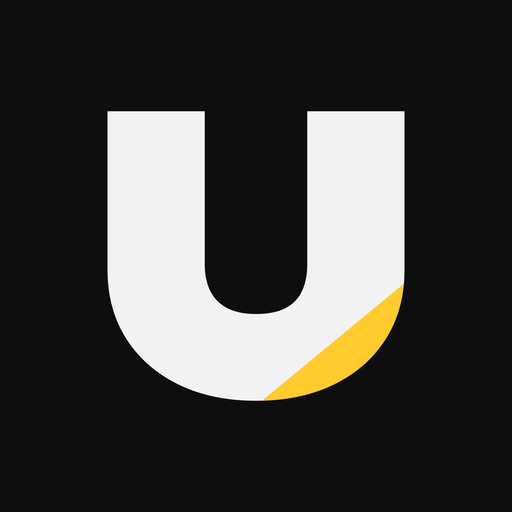
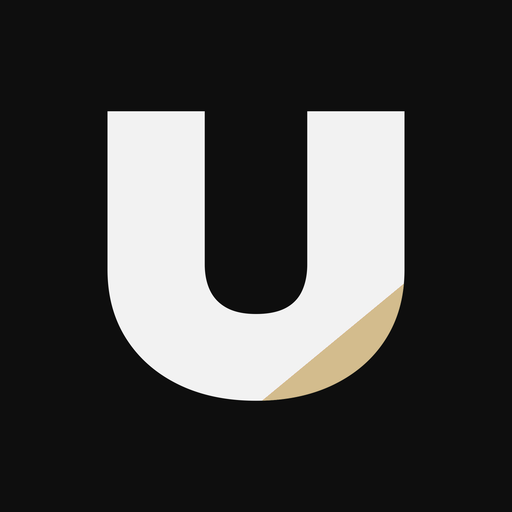
style(uc): Pit Wall gold is the brighter old gold (F-131) (#243)
* style(uc): Pit Wall gold is the brighter old gold (F-131)

The owner asked for a brighter, Saints-style gold. Dark --gold / colors.gold is #D3BC8D
(10.7:1 on surface, 9.4:1 on card, black ink), faint #27221A; light stays a text-safe
dark shade of the same hue, #73602F (5.0:1 on card), faint #F3EBD8. Icons regenerated
with the sweep's value scaled to the gold's, docs and spec figures updated.

* docs(uc): describe the Pit Wall gold without naming a team

* docs(uc): correct the light-gold and surface contrast figures (F-131 review)

---------

Changed region(s): [[0.5, 0.5625, 0.8125, 0.7812]]

diff --git a/web/pitwall/src/styles.css b/web/pitwall/src/styles.css
@@ -1,14 +1,14 @@
 :root{
   --bg:#0A0A0A;--surface:#0A0A0A;--card:#161616;--raised:#1E1E1E;--press:#1E1E1E;--border:#262626;--borderL:#262626;--borderS:#333333;
-  --fg:#F4F4F4;--fg2:#BDBDBD;--muted:#8C8C8C;--inv:#0A0A0A;--gold:#F2BA12;--onGold:#0A0A0A;--goldFaint:#2A2208;--neg:#FF2B2B;--pos:#3DDC84;--warn:#FF8A1F;
+  --fg:#F4F4F4;--fg2:#BDBDBD;--muted:#8C8C8C;--inv:#0A0A0A;--gold:#D3BC8D;--onGold:#0A0A0A;--goldFaint:#27221A;--neg:#FF2B2B;--pos:#3DDC84;--warn:#FF8A1F;
   --disp:'Archivo',system-ui,sans-serif;--mono:'JetBrains Mono',ui-monospace,Menlo,monospace;
 }
 @media (prefers-color-scheme: light){:root:not([data-theme="dark"]){
   --bg:#F4F4F2;--surface:#F4F4F2;--card:#E8E8E5;--raised:#FFFFFF;--press:#FFFFFF;--border:#D6D6D2;--borderL:#D6D6D2;--borderS:#C8C8C4;
-  --fg:#0A0A0A;--fg2:#3F3F3C;--muted:#6A6A66;--inv:#FFFFFF;--gold:#7D5B00;--onGold:#FFFFFF;--goldFaint:#FBF0CC;--neg:#C40F15;--pos:#138A3E;--warn:#96450A;}}
+  --fg:#0A0A0A;--fg2:#3F3F3C;--muted:#6A6A66;--inv:#FFFFFF;--gold:#73602F;--onGold:#FFFFFF;--goldFaint:#F3EBD8;--neg:#C40F15;--pos:#138A3E;--warn:#96450A;}}
 :root[data-theme="light"]{
   --bg:#F4F4F2;--surface:#F4F4F2;--card:#E8E8E5;--raised:#FFFFFF;--press:#FFFFFF;--border:#D6D6D2;--borderL:#D6D6D2;--borderS:#C8C8C4;
-  --fg:#0A0A0A;--fg2:#3F3F3C;--muted:#6A6A66;--inv:#FFFFFF;--gold:#7D5B00;--onGold:#FFFFFF;--goldFaint:#FBF0CC;--neg:#C40F15;--pos:#138A3E;--warn:#96450A;}
+  --fg:#0A0A0A;--fg2:#3F3F3C;--muted:#6A6A66;--inv:#FFFFFF;--gold:#73602F;--onGold:#FFFFFF;--goldFaint:#F3EBD8;--neg:#C40F15;--pos:#138A3E;--warn:#96450A;}
 *{box-sizing:border-box}
 body{background:var(--bg);color:var(--fg);font-family:var(--mono);font-weight:500;font-size:12px;line-height:1.45;font-stretch:125%}
 button{font:inherit;color:inherit;background:none;border:0;cursor:pointer;padding:0}

diff --git a/src/simple/theme/simpleTheme.ts b/src/simple/theme/simpleTheme.ts
@@ -27,9 +27,9 @@ export const S_COLORS_DARK = {
 
   // Pit Wall's own colour (F-131): everything the portal says in the app — the pick band, the
   // ace call, the analysis block, the Pass row — is gold, never the red the rest of the app
-  // uses for its accent and for bad numbers. 10.7:1 on `surface`, 9.7:1 on `card`.
-  gold: '#F2BA12',
-  goldFaint: '#2A2208',
+  // uses for its accent and for bad numbers. 10.4:1 on `surface`, 9.4:1 on `card`.
+  gold: '#D3BC8D',
+  goldFaint: '#27221A',
 
   text: {
     primary: '#F2F2F2',
@@ -61,8 +61,8 @@ export const S_COLORS_LIGHT = {
   primaryLight: '#FF5A5A',
   primaryFaint: '#FFE4E4',
 
-  gold: '#7D5B00',         // dark enough for text: 5.0:1 on `card`, 5.6:1 on `surface`
-  goldFaint: '#FBF0CC',
+  gold: '#73602F',         // dark enough for text: 5.0:1 on `card`, 5.5:1 on `surface`
+  goldFaint: '#F3EBD8',
 
   text: {
     primary: '#0A0A0A',

diff --git a/.aidlc/specs/F-131.md b/.aidlc/specs/F-131.md
@@ -23,7 +23,7 @@ accent, and the portal's favicon and touch icons carry the gold sweep.
 - [ ] Cautions read `--warn` (orange), neither gold nor red: rain at or above 1 mm, the Hero's penalty-risk / open-slot flags, stale data in the context bar, unsaved changes in the Lineup Lab, Moonshot's "Double down" and "terms changed" notes.
 - [ ] `S_COLORS_DARK` / `S_COLORS_LIGHT` carry `gold` and `goldFaint`; the dark `warning` is `#FF8A1F`; `valuePillContrast.test.ts` still passes.
 - [ ] The picker's Pit Wall pick band (`goldFaint` tint, `gold` edge bar and `PIT WALL PICK` label), the ace-call box, `GridPitWallBlock`, the Team screen's `PIT WALL` line and the Profile's Pit Wall rows use `colors.gold`; `colors.primary` is untouched everywhere else.
-- [ ] Gold meets WCAG AA for normal text on the card surface in both themes: dark ≥ 9:1 (`#F2BA12` is 9.7:1 on the app's `#1A1A1A`, 10.0:1 on the portal's `#161616`), light ≥ 5:1 (`#7D5B00` is 5.1:1 on `#E8E8E5`).
+- [ ] Gold meets WCAG AA for normal text on the card surface in both themes: dark ≥ 9:1 (`#D3BC8D` is 9.4:1 on the app's `#1A1A1A`, 9.8:1 on the portal's `#161616`), light ≥ 4.5:1, the AA floor (`#73602F` is 5.0:1 on `#E8E8E5`, 5.5:1 on `#F4F4F2`).
 - [ ] Portal preview screenshots (dark + light, desktop + phone) and an emulator run of the app's picker and driver sheet show gold where red was, filed on the share under `/mnt/smb/share/undercut/enh/pitwall-gold/` (01–09, as for PR #238's evidence) and linked from the PR; `docs/design/pitwall/briefing/HANDOFF.md` records the new tokens.
 - [ ] No forbidden term is introduced (the tokens and copy name no series or sanctioning body).
 

diff --git a/web/pitwall/public/README.md b/web/pitwall/public/README.md
@@ -7,7 +7,7 @@ transport security header and the single-page-app fallback.
 
 `icon-512.png`, `icon-192.png`, `apple-touch-icon.png` and `favicon-32.png` are scaled copies of
 `assets/icon.png` in this repository, the Undercut app icon drawn for this project under F-067, with
-the red sweep of the mark hue-shifted to Pit Wall's gold (`#F2BA12`, F-131). No third-party artwork,
+the red sweep of the mark hue-shifted to Pit Wall's gold (`#D3BC8D`, a warm old gold, F-131). No third-party artwork,
 font or trademark is used in them, and they carry no watchlist term. Regenerate them from the same
 source if the app icon ever changes, so the portal and the app stay one product:
 
@@ -16,12 +16,12 @@ python3 -c "
 import colorsys
 from PIL import Image
 src = Image.open('assets/icon.png').convert('RGB'); px = src.load()
-gh, gs, _ = colorsys.rgb_to_hsv(0xF2/255, 0xBA/255, 0x12/255)
+gh, gs, gv = colorsys.rgb_to_hsv(0xD3/255, 0xBC/255, 0x8D/255)
 for y in range(src.height):
     for x in range(src.width):
         h, s, v = colorsys.rgb_to_hsv(*(c/255 for c in px[x, y]))
         if s > 0.25 and (h < 0.06 or h > 0.94):  # the red sweep, edges included
-            px[x, y] = tuple(round(c*255) for c in colorsys.hsv_to_rgb(gh, min(s, gs), v))
+            px[x, y] = tuple(round(c*255) for c in colorsys.hsv_to_rgb(gh, min(s, gs), v * gv))
 for size, name in [(512,'icon-512.png'),(192,'icon-192.png'),(180,'apple-touch-icon.png'),(32,'favicon-32.png')]:
     src.resize((size,size), Image.LANCZOS).save(f'web/pitwall/public/{name}', optimize=True)
 "

diff --git a/docs/design/pitwall/briefing/HANDOFF.md b/docs/design/pitwall/briefing/HANDOFF.md
@@ -19,7 +19,7 @@ The `.dc.html` files are design-tool components: markup inside `<x-dc>` with `{{
 | Secondary text | `#BDBDBD` | `#3F3F3C` |
 | Muted text / labels | `#8C8C8C` | `#6A6A66` |
 | Dividers | `#262626` | `#D6D6D2` |
-| Accent (gold, `--gold`; was red `#FF2B2B` / `#E5161C`) | `#F2BA12`, ink on it `#0A0A0A`, faint `#2A2208` | `#7D5B00`, ink on it `#FFFFFF`, faint `#FBF0CC` |
+| Accent (gold, `--gold`; was red `#FF2B2B` / `#E5161C`) | `#D3BC8D`, ink on it `#0A0A0A`, faint `#27221A` | `#73602F`, ink on it `#FFFFFF`, faint `#F3EBD8` |
 | Negative (`--neg`: DNFs, losses, fees, errors) | `#FF2B2B` | `#C40F15` (the old `#E5161C` was 3.8:1 on cards) |
 | Caution (`--warn`) | `#FF8A1F` | `#96450A` |
 | Up / positive | `#3DDC84` | `#138A3E` |
